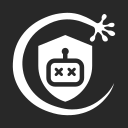
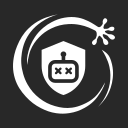
docs: present the plugin on its pages
readme.txt opens on what the plugin does for the site, then how it
catches bots, the filter, privacy, what is seen, the forms, with links to
the filter library and the developer documentation, and the changelog of
the next release. README.md starts with the banner, the CI, WordPress,
PHP and licence badges, then the title. The WordPress.org icon is built
from the logo on the anthracite square.

diff --git a/README.md b/README.md
@@ -1,3 +1,10 @@
+![](.github/banner.svg)
+
+[![CI](https://github.com/Gecka-Apps/wordpress-plugin-gecka-antispam/actions/workflows/ci.yml/badge.svg)](https://github.com/Gecka-Apps/wordpress-plugin-gecka-antispam/actions/workflows/ci.yml)
+[![WordPress 6.8+](https://img.shields.io/badge/WordPress-6.8%2B-21759b?logo=wordpress&logoColor=white)](readme.txt)
+[![PHP 8.2+](https://img.shields.io/badge/PHP-8.2%2B-777bb4?logo=php&logoColor=white)](readme.txt)
+[![License](https://img.shields.io/badge/license-GPL--3.0--or--later-blue.svg)](LICENSE)
+
 # Gecka Antispam for WordPress
 
 Stops spam on the forms of WordPress, WooCommerce, Contact Form 7, Gravity
@@ -97,8 +104,8 @@ Every protected form gets two fields:
 
 - a **signed timestamp**, hidden. A submission without it, or with a forged
   one, is caught. So is a form sent faster than the minimum delay: 5 seconds
-  by default, none for the login and lost password forms, which password
-  managers fill and send at once. A timestamp older than 8 days is caught
+  by default, none for the login and lost password forms, of WordPress and
+  of WooCommerce, which password managers fill and send at once. A timestamp older than 8 days is caught
   too, so that one taken from the page cannot serve for ever. A page served
   from a cache carries the timestamp of the moment it was cached: when pages
   stay cached longer than a week, raise the setting, or set it to 0 for no
@@ -129,11 +136,13 @@ A form can point it at its own fields: the additional setting
 The same rule reads a **message of a single word**: a bot that types one
 burst of random letters where a message goes is caught even when its name
 reads as one. A **minimum of words** applies to the message too, five by
-default, 0 for none: a message shorter than that is refused, on comments and
-contact forms alike.
+default, 0 for none: a message shorter than that is refused, on every form
+that has a message, comments included. A message field left empty is not a
+message, and not counted. Chinese, Japanese and Thai are written without
+blanks: each of their characters counts as a word.
 
-A last check reads the **user agent**: a submission sent with none, or with
-one wrapped in quotes, is refused. No browser sends either; a script whose
+A check run right after the honeypot reads the **user agent**: a submission
+sent with none, or with one wrapped in quotes, is refused. No browser sends either; a script whose
 setting was copied with its quotes does, by the thousand.
 
 A comment, or a product review, gets the fields and every check whoever
@@ -343,7 +352,7 @@ one; before, to the archive (until the first rotation, its age decides);
 older than two periods, it is left out, it would have halved since. The
 most recent are learnt first, 50 of each kind and source at a time. The
 button calls a REST route (`POST /wp-json/gecka-antispam/v1/learn-existing`,
-`manage_options`) again and again, each call learning for 5 seconds at
+`manage_options` by default) again and again, each call learning for 5 seconds at
 most, and shows the progress until nothing is left; without JavaScript, it
 posts a form that learns for 20 seconds at most (half the time limit of PHP
 when that is shorter), and a site holding more takes another click. A
